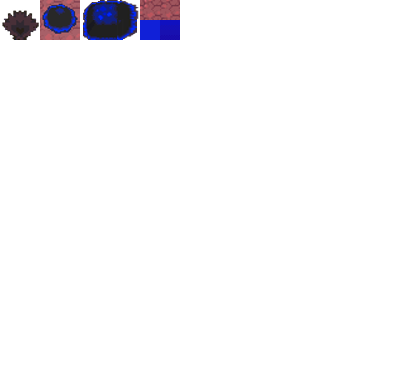
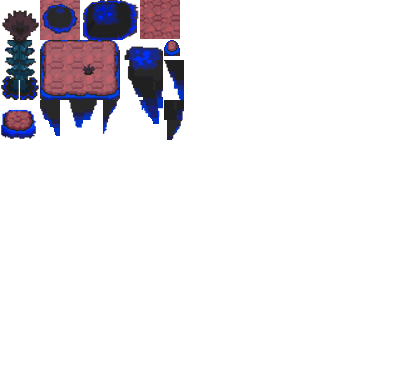
Update asset

Changed region(s): [[0.0, 0.0291, 0.4788, 0.3783]]

diff --git a/src/tilemap/components.rs b/src/tilemap/components.rs
@@ -1,0 +1,23 @@
+use bevy::prelude::*;
+
+#[derive(Debug, Component)]
+pub struct Tile;
+
+impl Tile {
+    pub fn texture_atlas_handle(
+        asset_server: Res<AssetServer>,
+        mut texture_atlas_res: ResMut<Assets<TextureAtlas>>,
+    ) -> Handle<TextureAtlas> {
+        let tile_image: Handle<Image> = asset_server.load("images/tiles/dis_world_tiles.png");
+
+        let texture_atlas = TextureAtlas::from_grid(
+            tile_image,
+            Vec2::new(20.0, 20.0),
+            9,
+            7,
+            None,
+            None,
+        );
+        return texture_atlas_res.add(texture_atlas);
+    }
+}

diff --git a/src/tilemap/mod.rs b/src/tilemap/mod.rs
@@ -1,1 +1,2 @@
 pub mod plugin;
+pub mod components;
